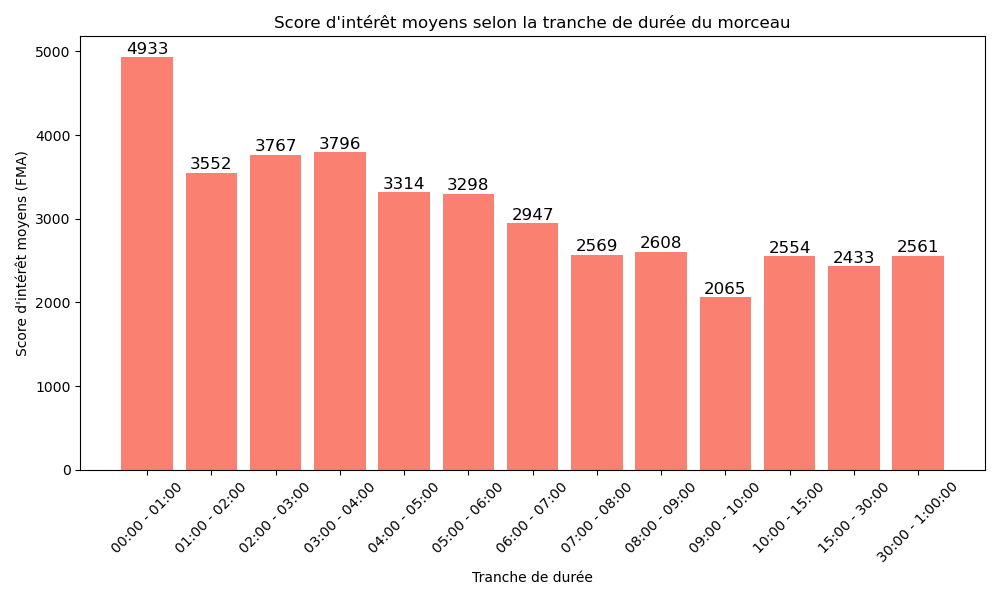
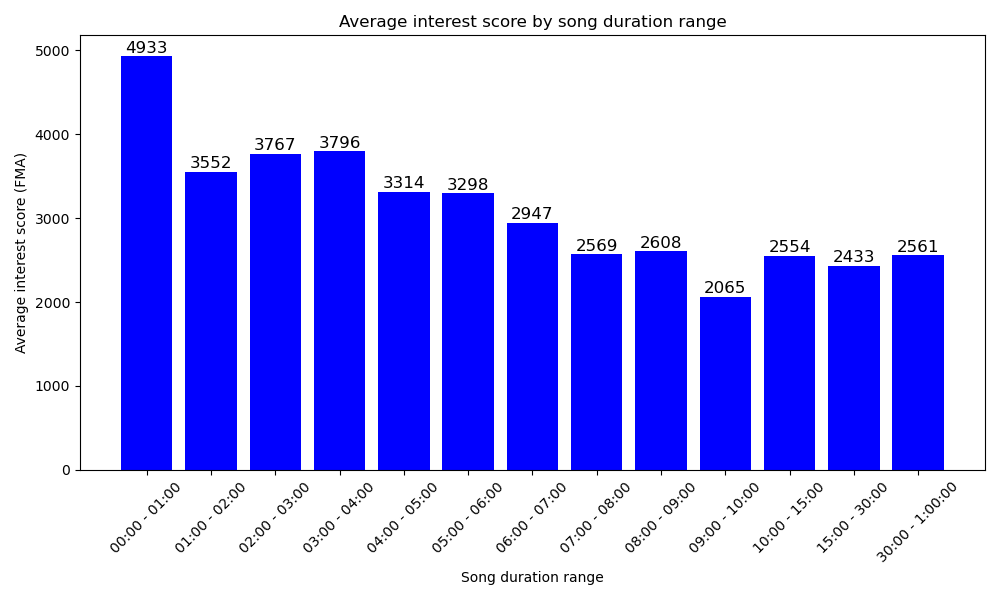
update graphique Cyp

diff --git a/script/analyse/analyse_cyp.py b/script/analyse/analyse_cyp.py
@@ -40,9 +40,9 @@ count_per_bin = df["duration_range"].value_counts().sort_index()
 plt.figure(figsize=(10,6))
 bars = plt.bar(count_per_bin.index.astype(str), count_per_bin.values, color="blue")
 plt.xticks(rotation=45)
-plt.xlabel("Tranche de durée du morceau")
-plt.ylabel("Nombre de morceaux")
-plt.title("Nombre de morceaux selon la durée du morceau")
+plt.xlabel("Song duration range")
+plt.ylabel("Number of songs")
+plt.title("Number of songs by song duration range")
 plt.tight_layout()
 
 for bar in bars:
@@ -60,12 +60,11 @@ plt.clf()
 favorites_per_bin = df.groupby("duration_range")["track_interest"].mean()
 
 plt.figure(figsize=(10,6))
-bars = plt.bar(favorites_per_bin.index.astype(str), favorites_per_bin.values, color="salmon")
-plt.xlabel("Tranche de durée")
-plt.ylabel("Score d'intérêt moyens (FMA)")
-plt.title("Score d'intérêt moyens selon la tranche de durée du morceau")
+bars = plt.bar(favorites_per_bin.index.astype(str), favorites_per_bin.values, color="blue")
+plt.xlabel("Song duration range")
+plt.ylabel("Average interest score (FMA)")
+plt.title("Average interest score by song duration range")
 plt.xticks(rotation=45)
-plt.tight_layout()
 
 # Ajouter les valeurs au-dessus de chaque barre
 for bar in bars:
@@ -75,4 +74,5 @@ for bar in bars:
              str(int(height)),
              ha='center', va='bottom', fontsize=12)
 
+plt.tight_layout()
 plt.savefig("images/analyse2_cyp.png")
